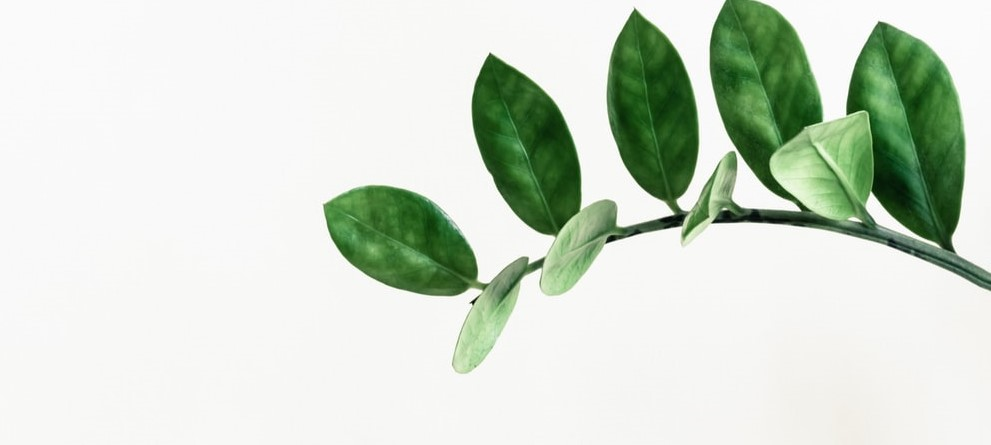
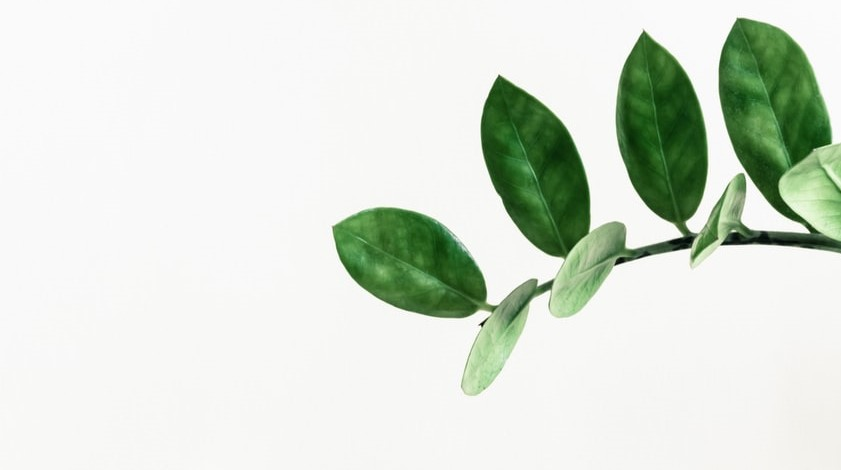
feat: Add new leaf background image and edit settings of old image
resources

Changed region(s): [[0.3092, 0.0, 1.0, 0.8472]]

diff --git a/personal-blog-website-Plumpsey314-master/css/blog.css b/personal-blog-website-Plumpsey314-master/css/blog.css
@@ -8,17 +8,6 @@ h1 {
   text-align: center;
 }
 
-/*Blog article*/
-h2 {
-  color: #000;
-  text-align: center;
-}
-
-p {
-  color: #000;
-  font-style: normal;
-}
-
 /*Blog links */
 
 #article-name-one {
@@ -44,9 +33,9 @@ p {
 
 /*blog link style*/
 button {
-  border: 10px solid #fff;
+  border: 10px solid #f8f8f8;
   text-decoration: none;
-  background-color: #fff;
+  background-color: #f8f8f8;
 }
 
 .content {
@@ -72,4 +61,13 @@ button {
 #spanish {
   order: 1;
   border: 2px solid #9a6;
+}
+/*Blog Articles*/
+.container{
+  box-sizing: 2px #888;
+}
+h2 {
+  background-image: url(../images/title-background.png);
+  line-height: 480%;
+  font-size: 400%;
 }

diff --git a/personal-blog-website-Plumpsey314-master/article-one.html b/personal-blog-website-Plumpsey314-master/article-one.html
@@ -1,13 +1,20 @@
 <!DOCTYPE html>
 <html lang="en" dir="ltr">
-  <head>
-    <meta charset="utf-8">
-    <title></title>
-    <link rel="stylesheet" href="css/blog.css">
-  </head>
-  <body><div class="container">
-    <h2>Title</h2>
-    <a href="index.html">Home</a>
 
-  </div></body>
+<head>
+  <meta charset="utf-8">
+  <title></title>
+  <link rel="stylesheet" href="css/blog.css">
+</head>
+
+<body>
+  <div class="container">
+    <header>
+    <h2>Title</h2>
+    </header>
+    <a href="index.html">Home</a>
+    <p>words<br>more words</p>
+  </div>
+</body>
+
 </html>

diff --git a/personal-blog-website-Plumpsey314-master/index.html b/personal-blog-website-Plumpsey314-master/index.html
@@ -6,6 +6,13 @@
   <title>Mi Vida/ My Life </title>
   <link rel="stylesheet" href="css/blog.css">
   <style>
+    h2 {
+      background-image: none;
+      line-height: normal;
+      font-size: 150%;
+      color: #000;
+      text-align: center;
+    }
     body{
       background-color: #eed;
     }
@@ -20,6 +27,7 @@
         "one two"
         "nav nav";
     }
+
   </style>
 </head>
 
